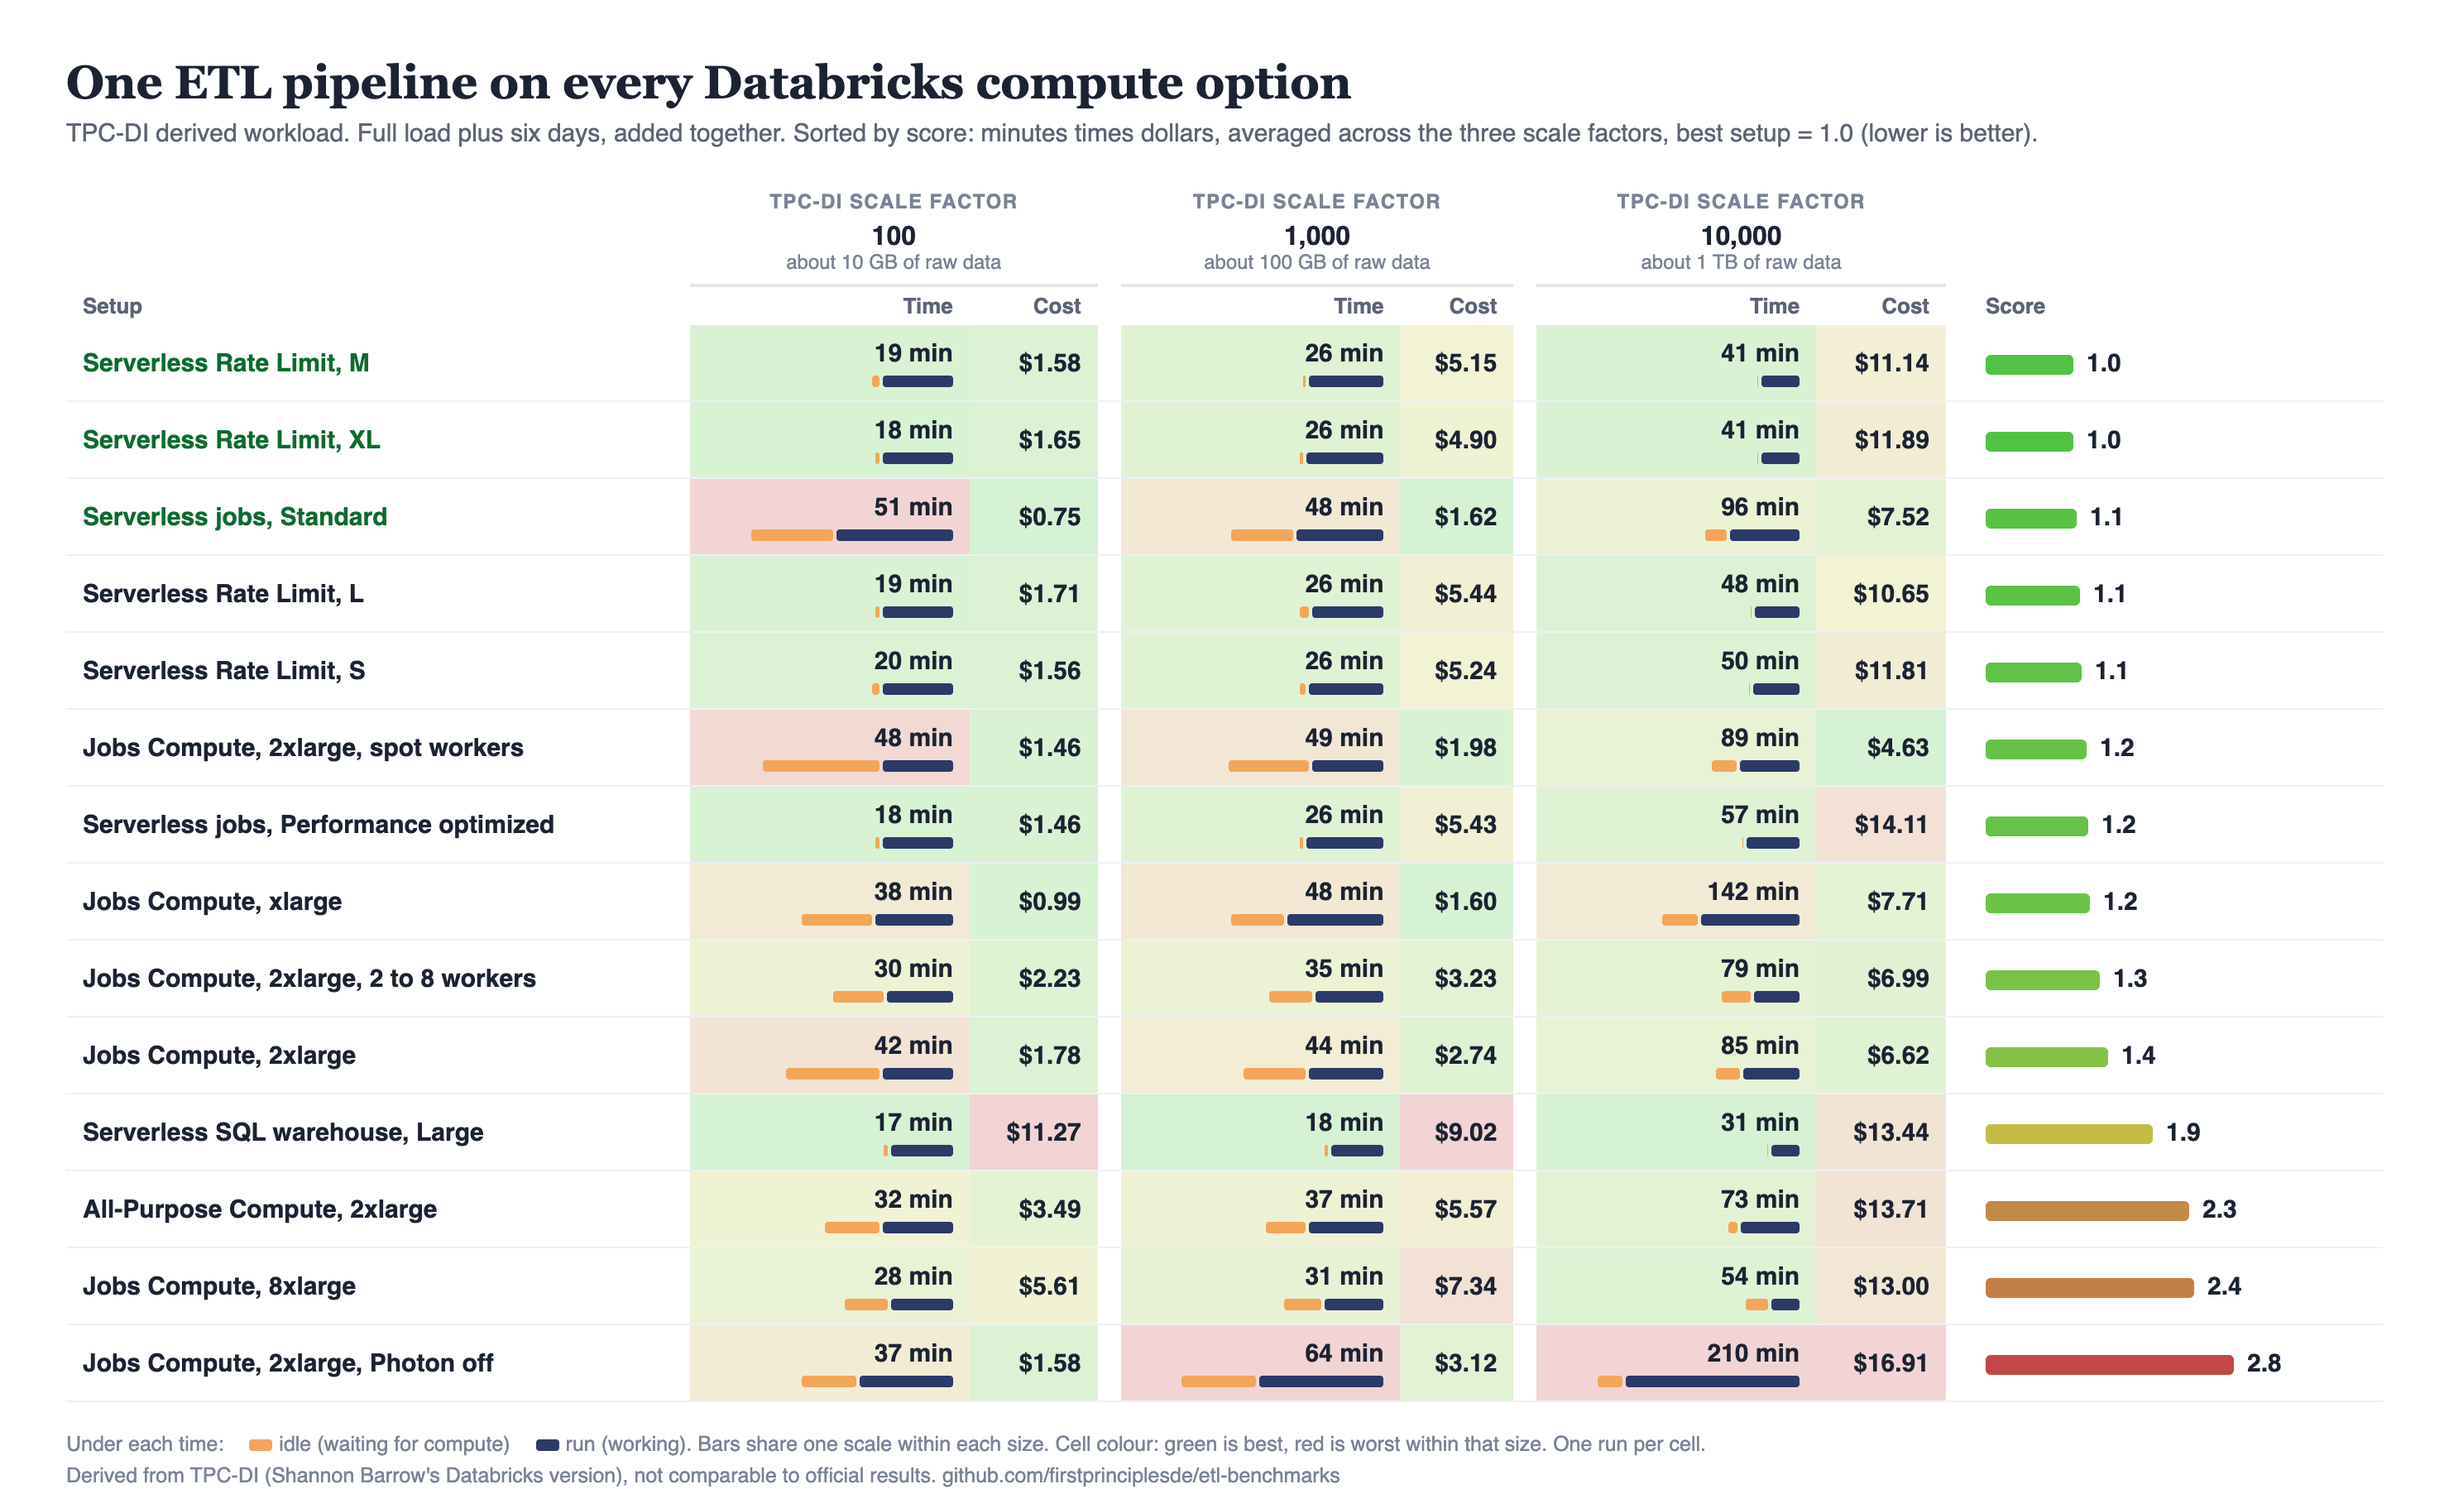
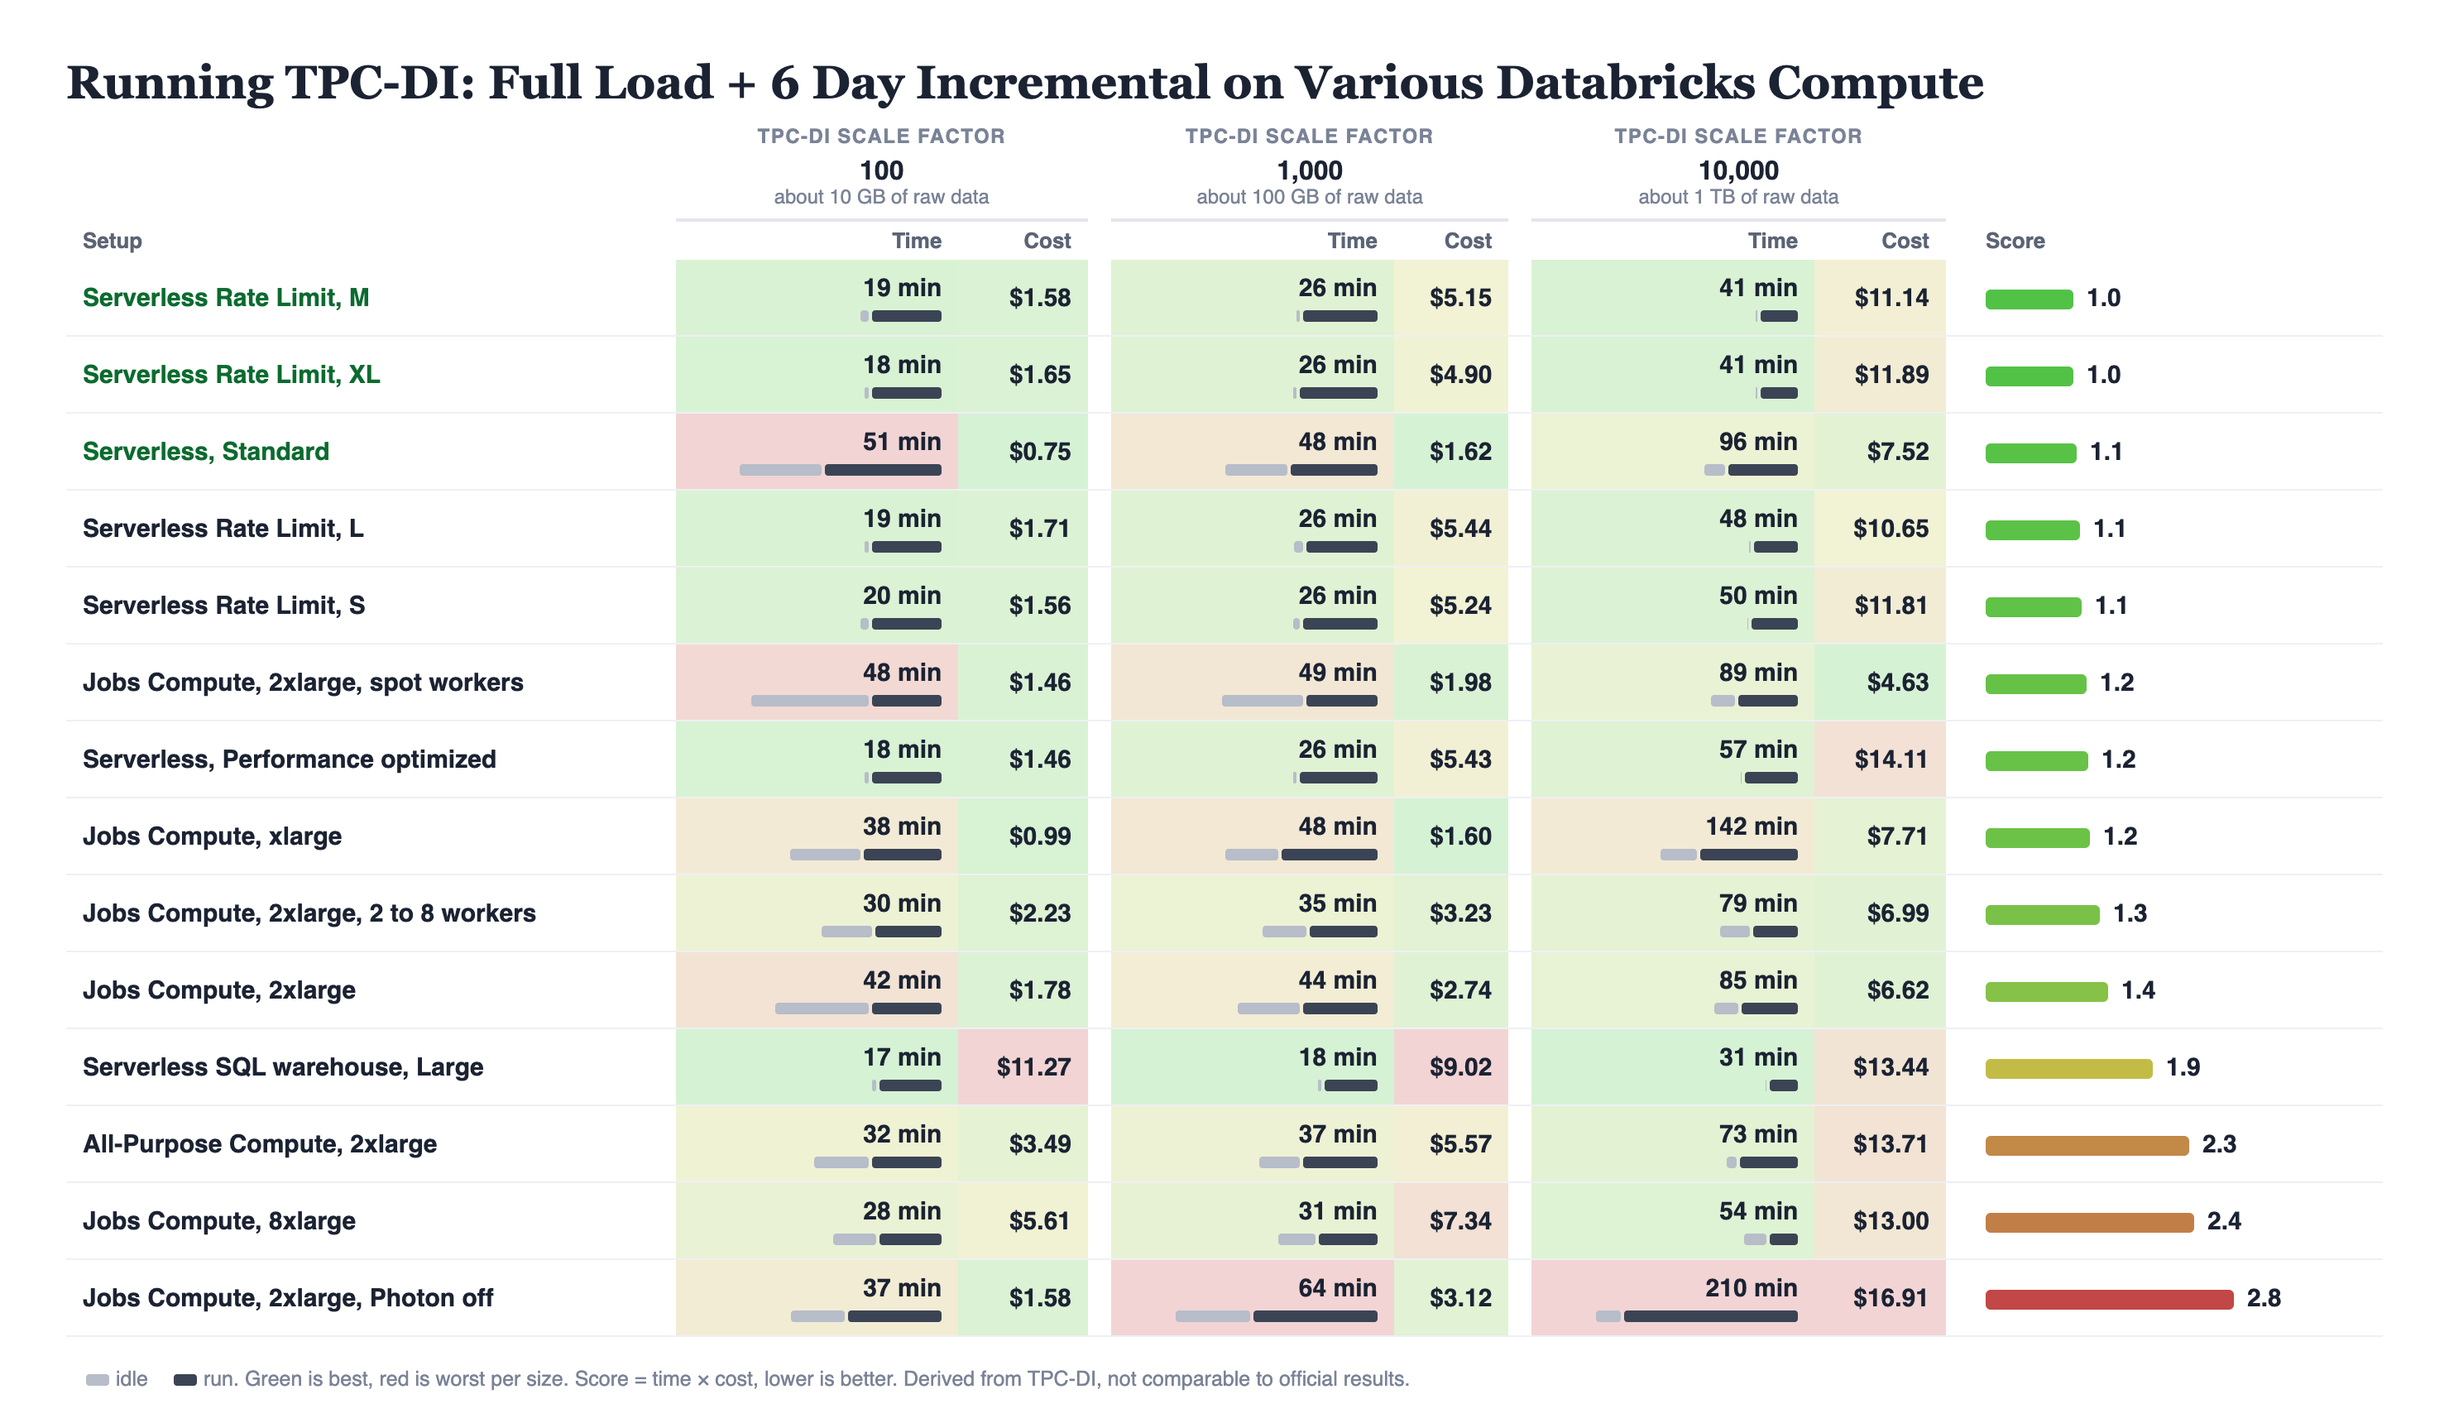
Results image: shorter title, neutral idle/run bars, simpler names

Changed region(s): [[0.0311, 0.0308, 0.9324, 1.0], [0.0311, 0.1541, 0.2176, 0.7703], [0.0311, 0.8012, 0.2176, 0.9244]]

diff --git a/README.md b/README.md
@@ -27,11 +27,11 @@ Each cell is the **full load plus six days** added together: idle minutes (waiti
 |---|---|---|---|---|
 | Serverless Rate Limit, M | 2 + 18 = **19** min · **$1.58** | 1 + 24 = **26** min · **$5.15** | 1 + 40 = **41** min · **$11.14** | **1.0** |
 | Serverless Rate Limit, XL | 1 + 18 = **18** min · **$1.65** | 1 + 25 = **26** min · **$4.90** | 1 + 40 = **41** min · **$11.89** | **1.0** |
-| Serverless jobs, Standard | 21 + 30 = **51** min · **$0.75** | 20 + 28 = **48** min · **$1.62** | 22 + 74 = **96** min · **$7.52** | **1.1** |
+| Serverless, Standard | 21 + 30 = **51** min · **$0.75** | 20 + 28 = **48** min · **$1.62** | 22 + 74 = **96** min · **$7.52** | **1.1** |
 | Serverless Rate Limit, L | 1 + 18 = **19** min · **$1.71** | 3 + 23 = **26** min · **$5.44** | 1 + 47 = **48** min · **$10.65** | **1.1** |
 | Serverless Rate Limit, S | 2 + 18 = **20** min · **$1.56** | 2 + 24 = **26** min · **$5.24** | 1 + 49 = **50** min · **$11.81** | **1.1** |
 | Jobs Compute, 2xlarge, spot workers | 30 + 18 = **48** min · **$1.46** | 26 + 23 = **49** min · **$1.98** | 26 + 63 = **89** min · **$4.63** † | **1.2** |
-| Serverless jobs, Performance optimized | 1 + 18 = **18** min · **$1.46** | 1 + 25 = **26** min · **$5.43** | 1 + 56 = **57** min · **$14.11** | **1.2** |
+| Serverless, Performance optimized | 1 + 18 = **18** min · **$1.46** | 1 + 25 = **26** min · **$5.43** | 1 + 56 = **57** min · **$14.11** | **1.2** |
 | Jobs Compute, xlarge | 18 + 20 = **38** min · **$0.99** | 17 + 31 = **48** min · **$1.60** | 38 + 104 = **142** min · **$7.71** † | **1.2** |
 | Jobs Compute, 2xlarge, 2 to 8 workers | 13 + 17 = **30** min · **$2.23** | 14 + 22 = **35** min · **$3.23** | 31 + 48 = **79** min · **$6.99** † | **1.3** |
 | Jobs Compute, 2xlarge | 24 + 18 = **42** min · **$1.78** | 20 + 24 = **44** min · **$2.74** | 25 + 60 = **85** min · **$6.62** † | **1.4** |
